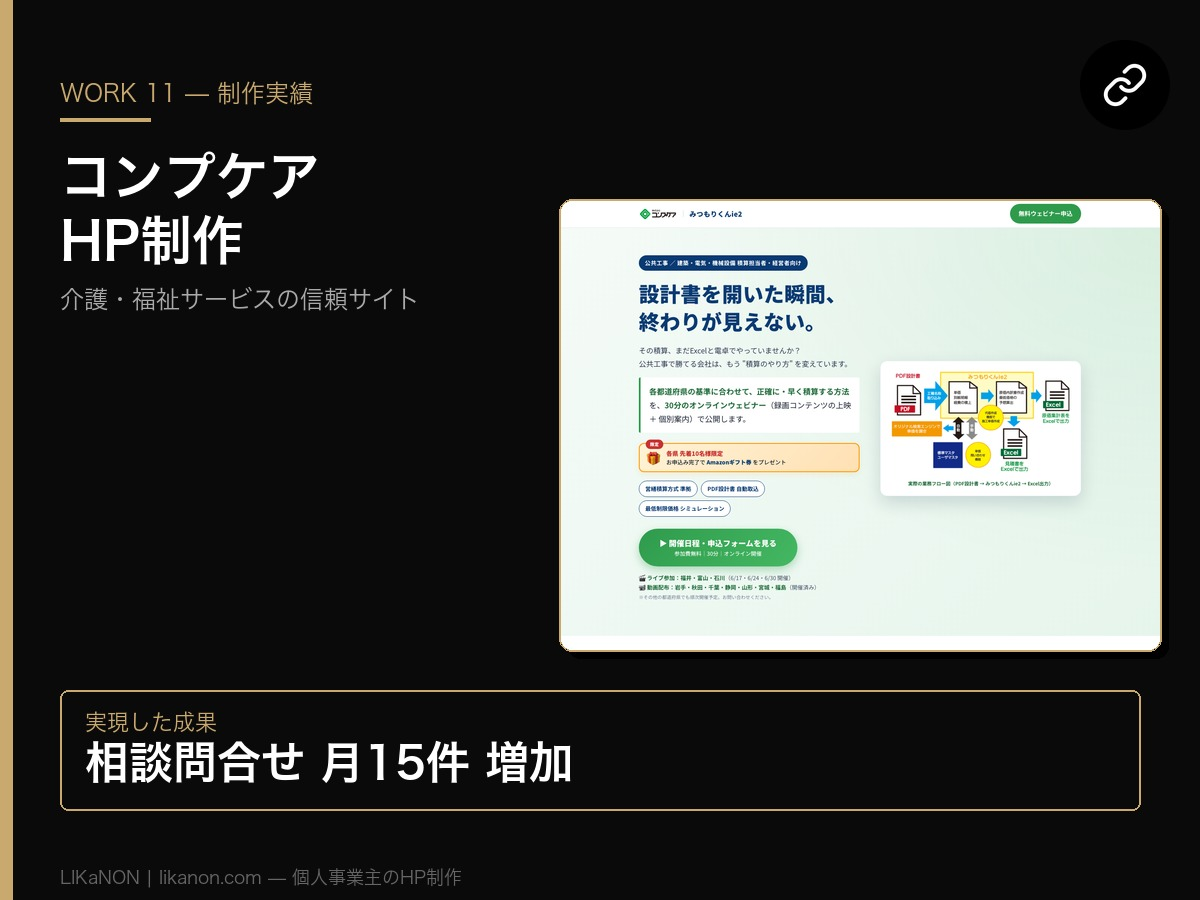
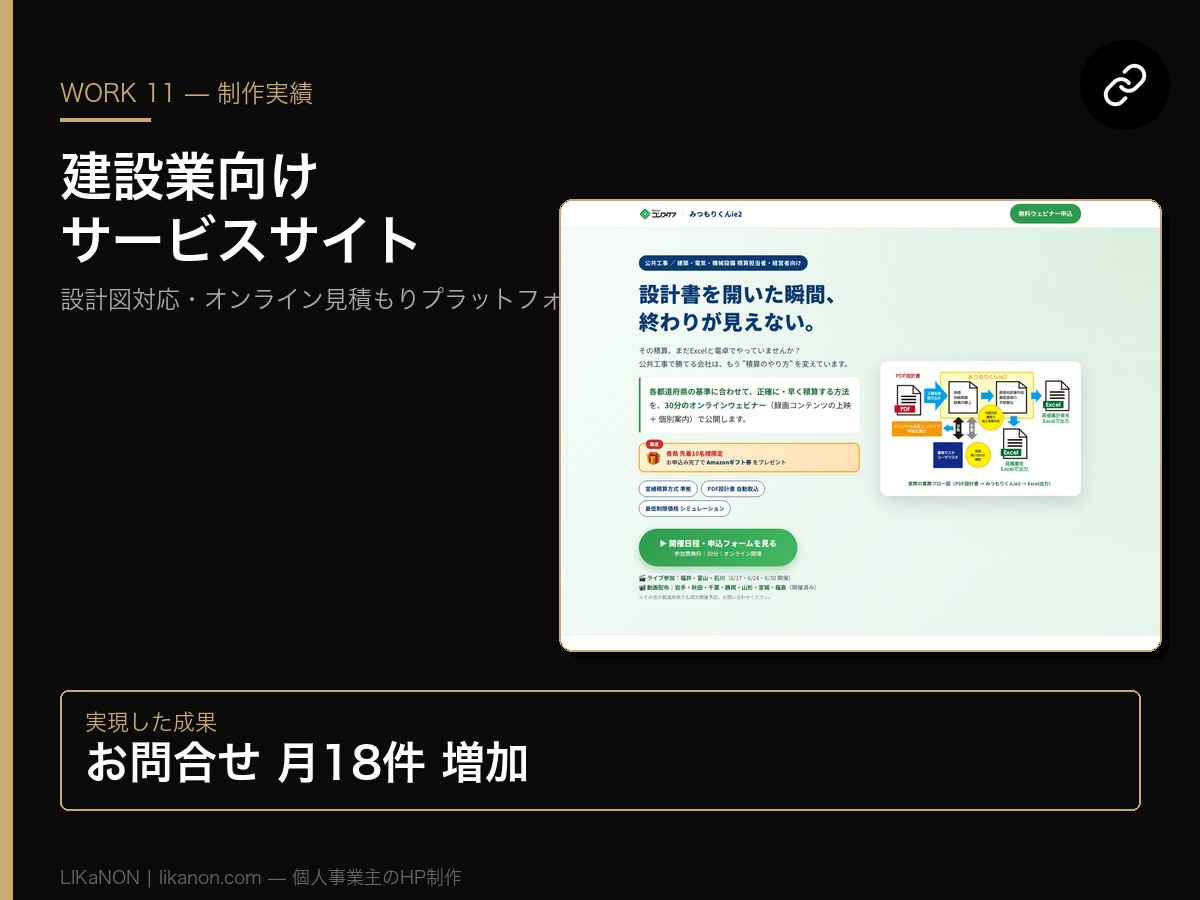
コンプケアの業種分類を「介護・福祉」→「建設」に修正
スクショ再確認の結果、compcare.jpは「土工事・電気・機械配管・建築設備・建築工事」
対応の建設業向けオンライン見積もり/設計図対応サービスと判明。

修正:
- index.html: タグ「介護・福祉」→「建設」
- portfolio-11-compcare.jpg: 業種名を「建設業向けサービスサイト」、
  タグライン「設計図対応・オンライン見積もりプラットフォーム」に変更

z-style.site（個別建設業者）と差別化して両立可能な分類に。

Changed region(s): [[0.0308, 0.1556, 0.4008, 0.3422], [0.0617, 0.8089, 0.4933, 0.8711], [0.4317, 0.3111, 0.4625, 0.3422]]

diff --git a/index.html b/index.html
@@ -846,7 +846,7 @@
                             <img src="https://api.microlink.io/?url=https://compcare.jp/&screenshot=true&meta=false&embed=screenshot.url" alt="コンプケア様" loading="lazy">
                         </div>
                         <div class="web-work-info">
-                            <span class="web-work-tag">介護・福祉</span>
+                            <span class="web-work-tag">建設</span>
                             <h4>コンプケア様</h4>
                         </div>
                     </a>